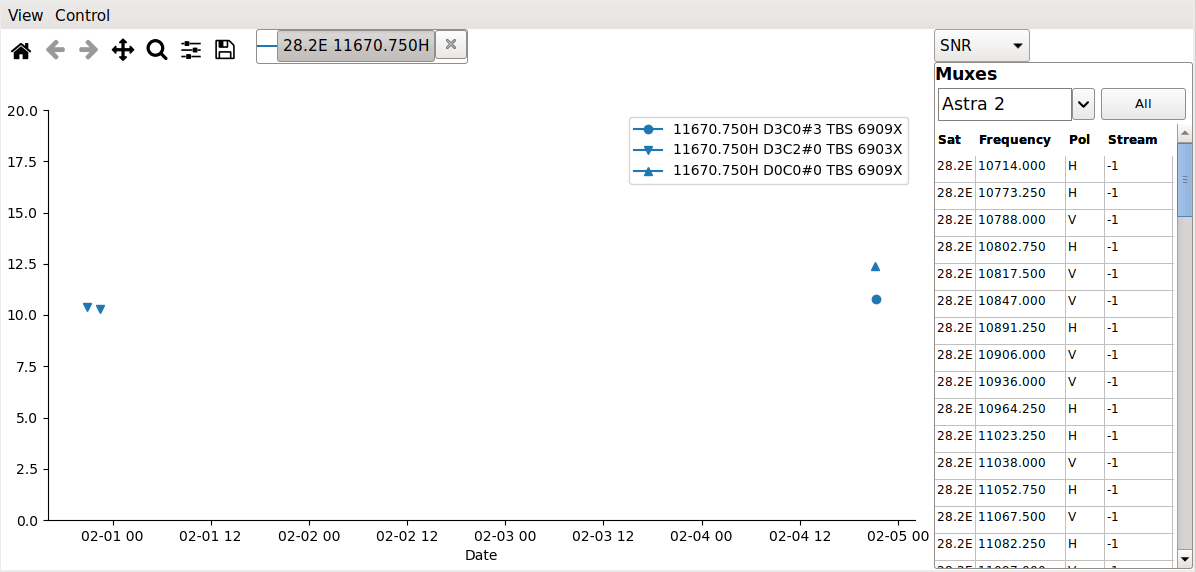
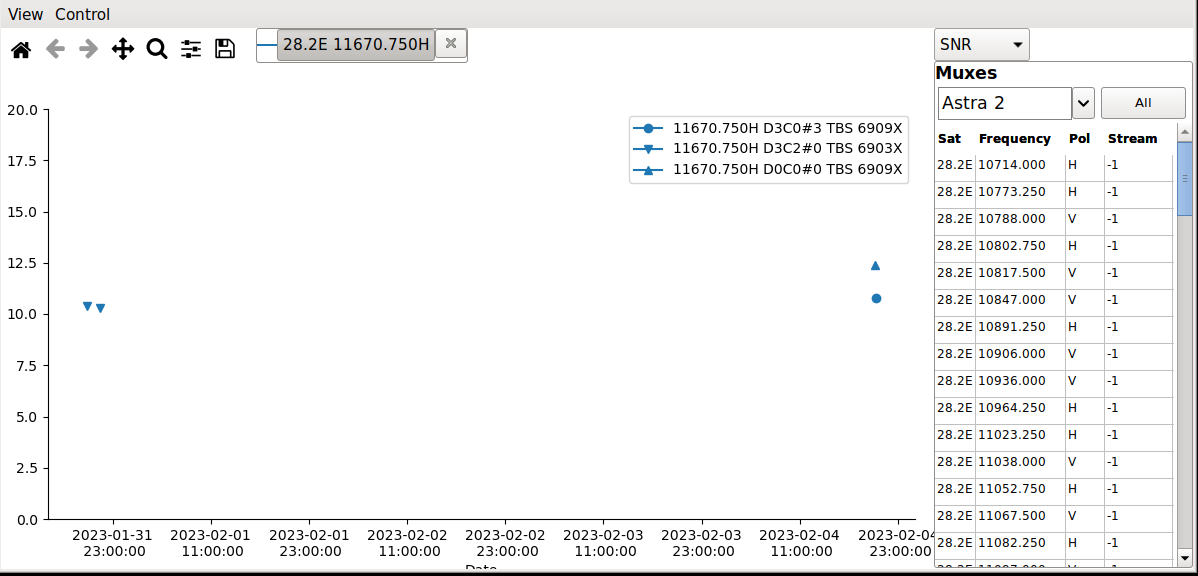
Signal history: improved date formatting

diff --git a/gui/neumodvb/signalhistoryplot.py b/gui/neumodvb/signalhistoryplot.py
@@ -168,7 +168,7 @@ class SignalHistory(object):
         if maxsignal <= minsignal:
             self.ylimits[1] = self.ylimits[0] + 1e-6
         self.axes.set_ylim(self.ylimits)
-
+        self.axes.xaxis.set_major_formatter(mpl.dates.DateFormatter('%Y-%m-%d\n %H:%M:%S'))
 
 class SignalHistoryPlot(wx.Panel):
     def __init__(self, parent, *args, **kwargs):
@@ -235,7 +235,7 @@ class SignalHistoryPlot(wx.Panel):
         self.axes.spines['right'].set_visible(False)
         self.axes.spines['top'].set_visible(False)
         self.axes.set_ylabel('dB')
-        self.axes.set_xlabel('Date')
+        self.axes.set_xlabel('Date\n')
         xlimits, ylimits = self.get_limits()
         if False:
             self.axes.set_xlim(xlimits)
